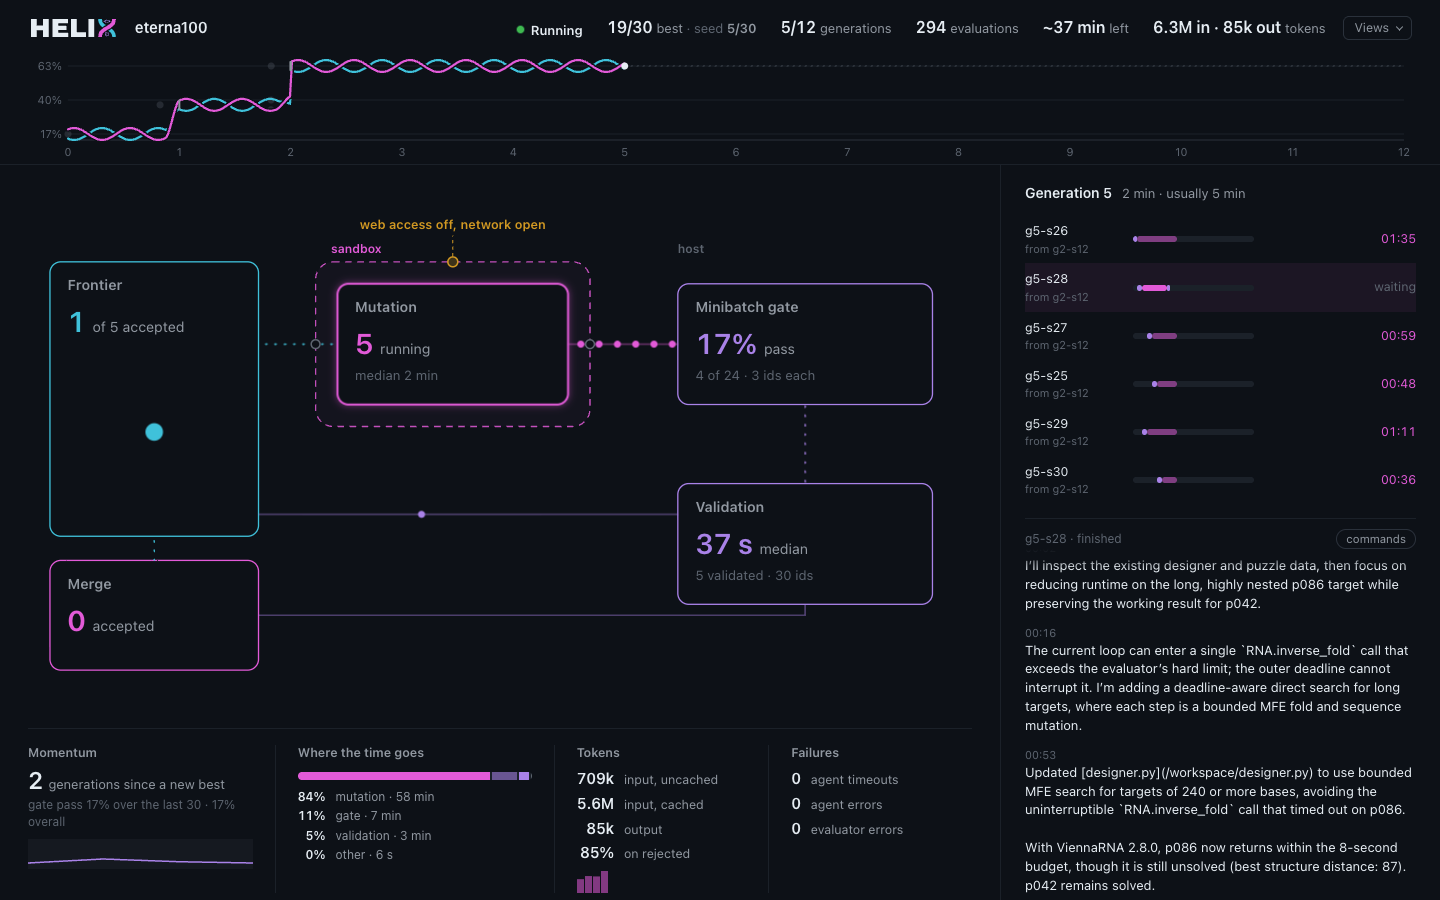
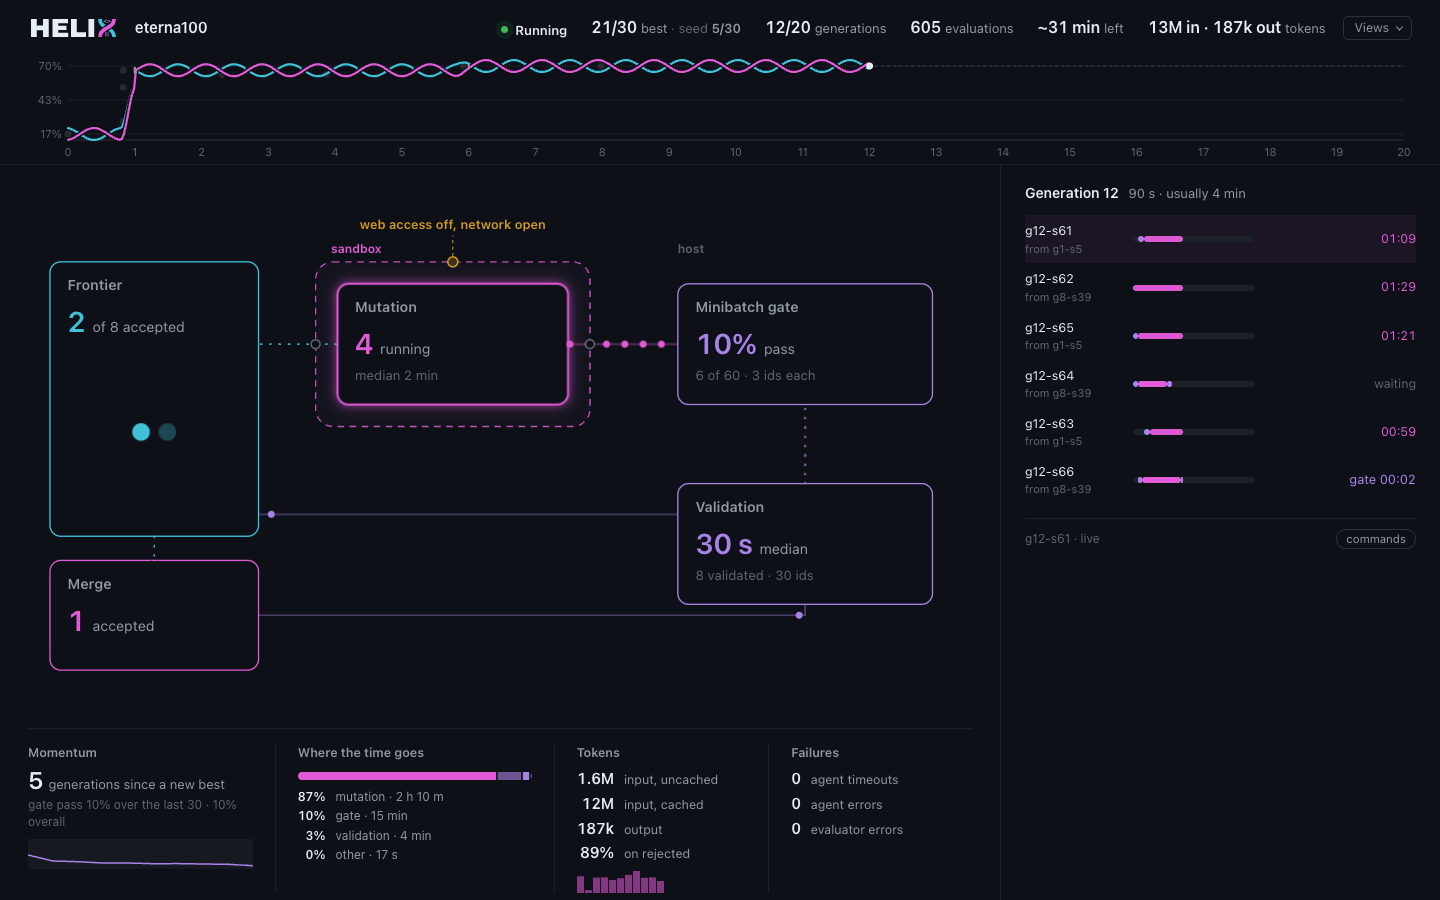
helix ui: Lineage and Path screenshots in the guide; hover card gate scores as counts
The guide shows the Lineage and Path views of a live eterna100 run, with
directions to reach them and the date they were taken, regenerated by
scripts/docs_screenshots.py, which now gives the Lineage a shorter window.
The hero screenshot is retaken from the same run. The counted-group hover
card reads gate scores as 2/3, from the proposals table the Lineage now
loads alongside.

diff --git a/src/helix/ui/static/app.js b/src/helix/ui/static/app.js
@@ -721,7 +721,7 @@
     if (gn) {
       const ms = gn.members.map((m) => S.lin.byId[m]).filter(Boolean);
       fill(k, h('div', { class: 'h' }, h('b', { text: `${ms.length} rejected` }), h('span', { text: (gn.parents.length > 1 ? 'merges of ' : 'from ') + gn.parents.join(' + ') })),
-        h('div', { class: 'note', text: ms.map((m) => `${m.id} ${propScore(m)}`).join(' · ') }),
+        h('div', { class: 'note', text: ms.map((m) => `${m.id} ${propScore(propOf(m.id) || m)}`).join(' · ') }),
         h('div', { class: 't', text: 'click to list them' }));
       placeCard(k, target);
       return;
@@ -1475,6 +1475,8 @@
   async function drawLineage() {
     const V = $('v-lineage');
     if (!V.firstChild) fill(V, crumbs(['Loop', 'map'], ['Lineage', '']));
+    // the proposals rows carry the gate's successes and n, which the panels and cards show as 2/3 rather than 0.667
+    if (S.run) loadInto(S.prop, proposalsKey(), '/api/proposals');
     await loadInto(S.lin, lineageKey(), '/api/lineage');
     if (S.view === 'lineage') paintLineage();
   }

diff --git a/scripts/docs_screenshots.py b/scripts/docs_screenshots.py
@@ -24,12 +24,12 @@ from pathlib import Path
 from playwright.async_api import Page, async_playwright
 
 OUT = Path(__file__).resolve().parent.parent / "docs" / "assets" / "ui"
-VIEWPORT = {"width": 1440, "height": 900}
-# name, route, the element to crop to (None for the whole window), device scale factor
+# name, route, the element to crop to (None for the whole window), window height, device scale factor;
+# the Lineage gets a shorter window, since a tree of a few dozen proposals leaves the rest of the height empty
 SHOTS = [
-    ("helix-ui", "", None, 1),
-    ("lineage", "#lineage", "#v-lineage", 2),
-    ("path", "#path", "#v-path", 2),
+    ("helix-ui", "", None, 900, 1),
+    ("lineage", "#lineage", "#v-lineage", 760, 2),
+    ("path", "#path", "#v-path", 900, 2),
 ]
 
 
@@ -50,8 +50,9 @@ async def main(url: str, out: Path, chromium: bool) -> None:
     async with async_playwright() as p:
         browser = await (p.chromium.launch() if chromium else p.chromium.launch(channel="chrome"))
         for scheme in ("light", "dark"):
-            for name, route, crop, scale in SHOTS:
-                ctx = await browser.new_context(viewport=VIEWPORT, device_scale_factor=scale, color_scheme=scheme)
+            for name, route, crop, height, scale in SHOTS:
+                viewport = {"width": 1440, "height": height}
+                ctx = await browser.new_context(viewport=viewport, device_scale_factor=scale, color_scheme=scheme)
                 page = await ctx.new_page()
                 errors: list[str] = []
                 page.on("pageerror", lambda e: errors.append(str(e)))

diff --git a/docs/guides/ui.md b/docs/guides/ui.md
@@ -127,6 +127,20 @@ closes the open popover or panel, and otherwise returns to the Loop. Each view h
   cached input inside its input total; the dashboard subtracts it, so the three rows add up to the run's tokens.
 - **Current generation**: each proposal's phase and elapsed time, and the live transcript of the selected agent.
 
+### Lineage and Path
+
+![The Lineage view of an eterna100 run in generation 12: the path to the best candidate, g6-s25 at 21 of 30, runs straight across from the seed through g1-s5 and g4-s16; frontier members are ringed, rejected proposals are small open circles, and groups of three or four rejected children of one parent show as circles with their count](../assets/ui/lineage-light.png#only-light)
+![The Lineage view of an eterna100 run in generation 12: the path to the best candidate, g6-s25 at 21 of 30, runs straight across from the seed through g1-s5 and g4-s16; frontier members are ringed, rejected proposals are small open circles, and groups of three or four rejected children of one parent show as circles with their count](../assets/ui/lineage-dark.png#only-dark)
+
+*Views → Lineage. Hover a node to light its ancestry; click a counted circle to list the rejected proposals in it.*
+
+![The Path view of the same run: from the seed at 5 of 30 to g1-s5 at 20 (3 of 6 proposals from the seed accepted), g4-s16 at 19 (one fewer than its parent, accepted because it solves puzzles its parent misses) and g6-s25 at 21, with files changed, agent time and tokens for each step and the generations between steps](../assets/ui/path-light.png#only-light)
+![The Path view of the same run: from the seed at 5 of 30 to g1-s5 at 20 (3 of 6 proposals from the seed accepted), g4-s16 at 19 (one fewer than its parent, accepted because it solves puzzles its parent misses) and g6-s25 at 21, with files changed, agent time and tokens for each step and the generations between steps](../assets/ui/path-dark.png#only-dark)
+
+*Views → Path, or "Path from seed" on a pinned candidate in the Lineage.*
+
+<small>Screenshots from November 2026; `scripts/docs_screenshots.py` regenerates them from a running dashboard.</small>
+
 ## Live transcripts
 
 The transcript comes from the agent CLI's own session file, which Codex and Claude Code write as they run. With the
